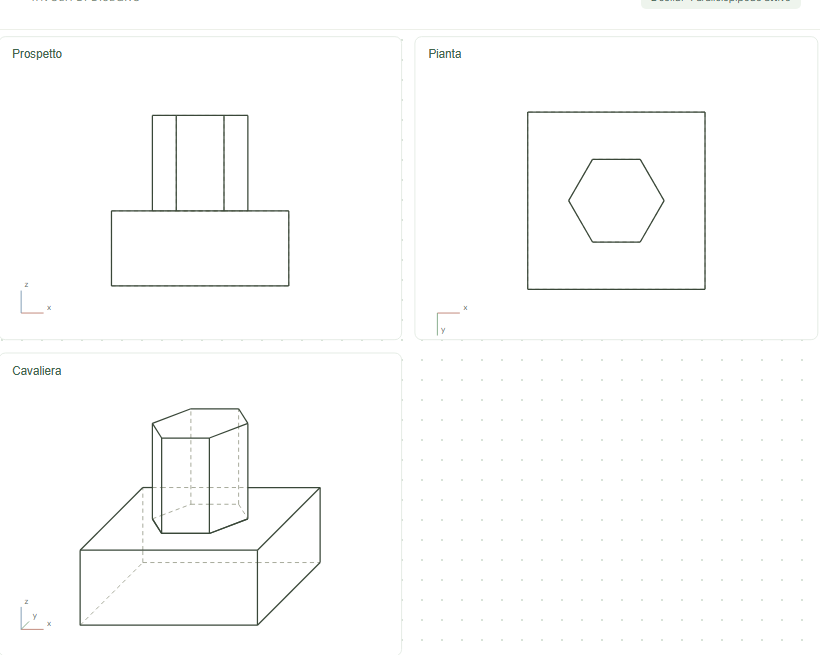
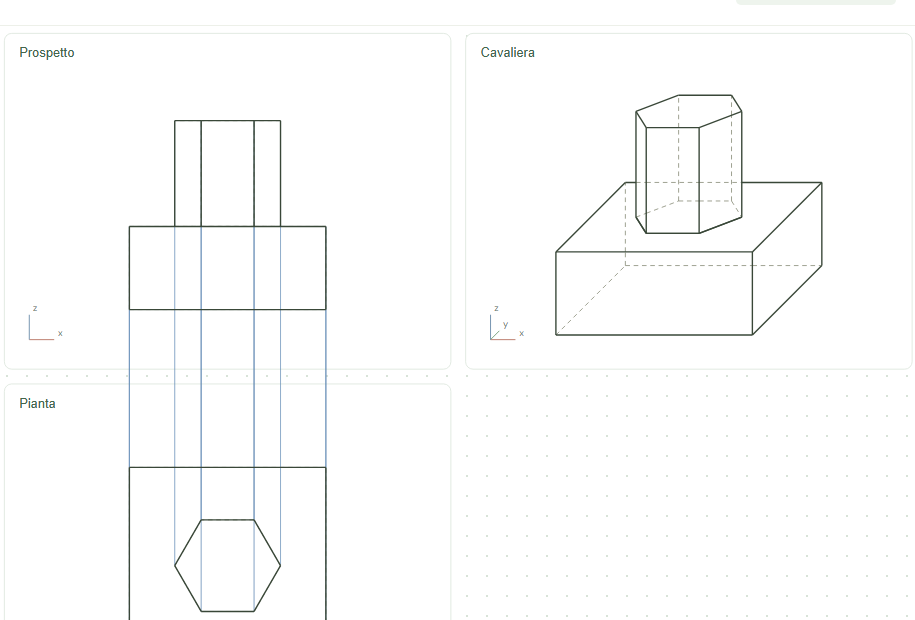
Linee di proiezione nella tavola a 3 viste e layout prospetto/pianta in colonna

diff --git a/public/app.js b/public/app.js
@@ -131,7 +131,7 @@ function render(){
  if(mode==='construction'){renderConstruction();return;}
  const views=mode==='sheet'?['front','right','top','cavalier']:mode==='sheet3'?['front','top','cavalier']:mode==='all'?['front','right','top','cavalier','isometric','back','left','bottom']:[mode];
  const multiple=views.length>1;
- const slots=views.map((_,i)=>multiple&&i>=3?i+1:i);
+ const slots=mode==='sheet3'?[0,2,1]:views.map((_,i)=>multiple&&i>=3?i+1:i);
  const cols=multiple?2:1,rows=Math.ceil((views.length+(multiple?1:0))/cols);
  svg.setAttribute('viewBox',`0 0 ${cols*500} ${rows*380}`);svg.style.maxHeight=multiple?'none':'800px';
  const bounds=views.map(key=>{const pts=current[key].flatMap(s=>s.points),xs=pts.map(p=>p[0]),ys=pts.map(p=>p[1]);return {minX:Math.min(...xs),maxX:Math.max(...xs),minY:Math.min(...ys),maxY:Math.max(...ys)};});
@@ -153,23 +153,30 @@ function render(){
   edges.sort((a,b)=>Number(a.visible)-Number(b.visible));edges.forEach(e=>{if(!e.visible&&!document.querySelector('#hidden').checked)return;if(Math.hypot(e.a[0]-e.b[0],e.a[1]-e.b[1])<.01)return;line(e.a,e.b,{stroke:e.visible?'#394738':'#7c806a','stroke-width':e.visible?1.5:.8,'stroke-dasharray':e.visible?'none':'5 4'});});
   if(document.querySelector('#axes').checked){const o=[ox+35,oy+340];current[key][0].axes.slice(1).forEach((p,i)=>{if(Math.hypot(...p)<.01)return;const end=[o[0]+p[0]*.45,o[1]+p[1]*.45];line(o,end,{stroke:['#b77565','#729d77','#6c8daa'][i],'stroke-width':1});g.append(node('text',{x:end[0]+4,y:end[1]-4,fill:'#718474','font-size':10},['x','y','z'][i]));});}
  });
- if(multiple&&maps.front&&maps.top&&maps.right){
-  paper.append(node('rect',{x:508,y:388,width:484,height:364,rx:8,fill:'white',stroke:'#e0e8e0'}));
-  svg.append(node('text',{x:524,y:414,fill:'#42664d','font-size':14,'font-family':'sans-serif'},'Riporto della profondità · 45°'));
-  const enabled=document.querySelector('#connections').checked;
-  if(enabled){
+ if(multiple&&maps.front&&maps.top){
+  if(maps.right){
+   paper.append(node('rect',{x:508,y:388,width:484,height:364,rx:8,fill:'white',stroke:'#e0e8e0'}));
+   svg.append(node('text',{x:524,y:414,fill:'#42664d','font-size':14,'font-family':'sans-serif'},'Riporto della profondità · 45°'));
+  }
+  if(document.querySelector('#connections').checked){
    const seen=new Set();
    const path=(points,kind)=>{const key=points.map(p=>p.map(n=>n.toFixed(4)).join(',')).join(' ');if(seen.has(key))return;seen.add(key);guides.append(node('polyline',{points:points.map(p=>p.join(',')).join(' '),'data-guide':kind}));};
    const corners=[];
    current.front.forEach((s,si)=>s.points.forEach((p,vi)=>{
-    const front=maps.front(p),top=maps.top(current.top[si].points[vi]),right=maps.right(current.right[si].points[vi]);
-    path([front,top],'front-top');path([front,right],'front-right');
-    const corner=[right[0],top[1]];corners.push(corner);path([top,corner,right],'depth-transfer');
+    const front=maps.front(p),top=maps.top(current.top[si].points[vi]);
+    path([front,top],'front-top');
+    if(maps.right){
+     const right=maps.right(current.right[si].points[vi]);
+     path([front,right],'front-right');
+     const corner=[right[0],top[1]];corners.push(corner);path([top,corner,right],'depth-transfer');
+    }
    }));
    if(maps.back&&maps.left)current.back.forEach((s,si)=>s.points.forEach((p,vi)=>path([maps.back(p),maps.left(current.left[si].points[vi])],'back-left')));
-   corners.sort((a,b)=>a[0]-b[0]);
-   const first=corners[0],last=corners.at(-1);
-   guides.append(node('line',{x1:first[0]-18,y1:first[1]-18,x2:last[0]+18,y2:last[1]+18,stroke:'#bc8b47','stroke-width':1.2,'stroke-dasharray':'6 4','data-guide':'miter'}));
+   if(corners.length){
+    corners.sort((a,b)=>a[0]-b[0]);
+    const first=corners[0],last=corners.at(-1);
+    guides.append(node('line',{x1:first[0]-18,y1:first[1]-18,x2:last[0]+18,y2:last[1]+18,stroke:'#bc8b47','stroke-width':1.2,'stroke-dasharray':'6 4','data-guide':'miter'}));
+   }
   }
  }
 }

diff --git a/README.md b/README.md
@@ -29,7 +29,7 @@ Solidi: parallelepipedo, cubo, piramide retta a base rettangolare, prisma triang
 
 Il backend espone `POST /api/project` con parametri JSON `shape`, `width`, `depth`, `height`, `angle`, `reduction`. Restituisce vertici proiettati, facce visibili e spigoli. Formula: X = x + k y cos(α), Y = −z − k y sin(α). La visibilità è calcolata con le normali delle facce per questi solidi convessi.
 
-Composizioni: fino a 30 solidi, aggiunta, duplicazione, eliminazione, traslazione X/Y/Z e rotazione intorno a Z. Salvataggio automatico della scena nel localStorage del browser. Sei viste ortogonali (prospetto, retro, pianta, basso, profili destro e sinistro), cavaliera e isometrica. Tavole a tre viste (prospetto, pianta, cavaliera), quattro o otto viste con scala comune ed esportazione SVG della vista corrente.
+Composizioni: fino a 30 solidi, aggiunta, duplicazione, eliminazione, traslazione X/Y/Z e rotazione intorno a Z. Salvataggio automatico della scena nel localStorage del browser. Sei viste ortogonali (prospetto, retro, pianta, basso, profili destro e sinistro), cavaliera e isometrica. Tavole a tre viste (prospetto e pianta nella colonna di sinistra, cavaliera a destra), quattro o otto viste con scala comune, linee di proiezione tra le viste (casella «Linee di collegamento») ed esportazione SVG della vista corrente.
 
 Scenari pronti: torre di tre cubi, piramide su piedistallo, solidi affiancati, scalinata, casa con torre, esagono nel parallelepipedo (prisma passante) ed esagono sul parallelepipedo (prisma appoggiato). I solidi impilati sono centrati e appoggiati a contatto; quelli affiancati hanno posizioni preimpostate. Ogni scenario resta modificabile e aggiorna tutte le viste. Il pulsante «Ripristina scena precedente» annulla l’ultimo caricamento di uno scenario durante la sessione.
 
